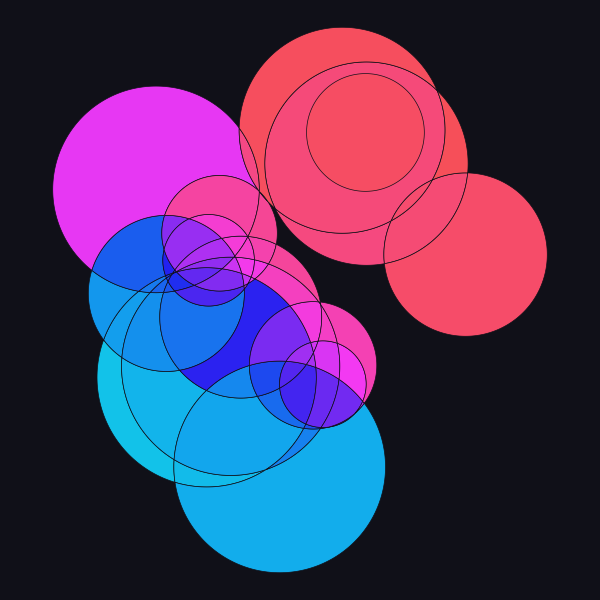
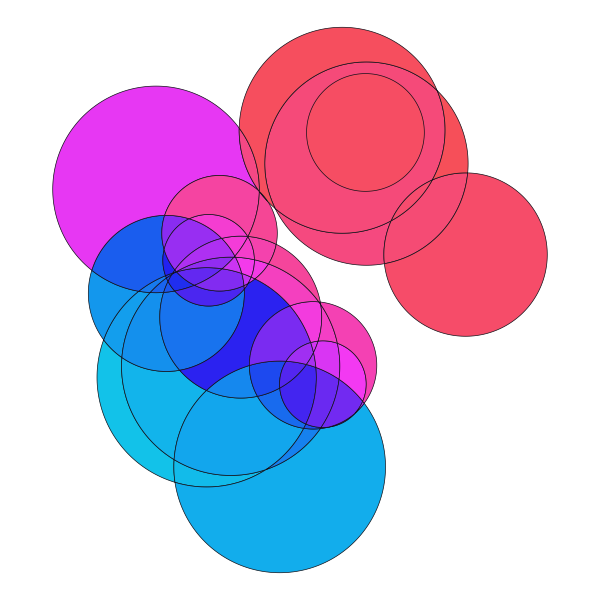
Preserve alpha end-to-end so transparent pieces stay transparent
The render pipeline flattened every piece onto opaque black: the harness
normalised to RGB and the animated encoder used rgb24/yuv420p. Pieces
drawn on a transparent ground lost it, which matters now the wall frames
pieces against its own background rather than a black tile.

- worker/render_job.py: feed ffmpeg rgba and encode VP9 with yuva420p
- samples/preview.py: normalize() returns RGBA, promoting RGB and
  greyscale input; new gif_frame() gives the local GIF previews the
  1-bit transparency GIF can express
- prototypes/, samples/*.py: match, and draw on a transparent ground
- tests/test_pipeline.py: assert the alpha survives — PNGs are RGBA with
  an unpainted corner, WebM carries the alpha_mode tag. Reading a stream
  tag needs ffprobe's default output, not csv.

Sample media re-rendered accordingly.

diff --git a/prototypes/pyodide_live_canvas/index.html b/prototypes/pyodide_live_canvas/index.html
@@ -206,13 +206,13 @@ def _normalize(obj):
         from matplotlib.figure import Figure
         if isinstance(obj, Figure):
             obj.canvas.draw()
-            arr = np.asarray(obj.canvas.buffer_rgba())[..., :3].copy()
+            arr = np.asarray(obj.canvas.buffer_rgba()).copy()
             plt.close(obj)
             return arr
     if "PIL.Image" in sys.modules:
         from PIL import Image
         if isinstance(obj, Image.Image):
-            return np.asarray(obj.convert("RGB"))
+            return np.asarray(obj.convert("RGBA"))
     arr = np.asarray(obj)
     if arr.dtype != np.uint8:
         arr = (np.clip(arr, 0, 1) * 255).astype(np.uint8)
@@ -245,7 +245,7 @@ def render(t=0.0):
     h, w = arr.shape[0], arr.shape[1]
     rgba = np.empty((h, w, 4), np.uint8)
     rgba[..., :3] = arr[..., :3]
-    rgba[..., 3] = 255
+    rgba[..., 3] = arr[..., 3] if arr.shape[-1] == 4 else 255
     return rgba
 `;
 

diff --git a/tests/test_pipeline.py b/tests/test_pipeline.py
@@ -53,16 +53,18 @@ def _render(conn, settings, code: str):
     return db.get_submission(conn, sid)
 
 
-def _probe_video(path: Path) -> tuple[str, int, int]:
-    """codec/width/height via ffprobe inside the worker image (host has none)."""
+def _probe_video(path: Path) -> tuple[str, int, int, str]:
+    """codec/width/height/alpha_mode via ffprobe inside the worker image
+    (host has none)."""
     out = subprocess.run(
         ["docker", "run", "--rm", "-v", f"{path}:/probe.webm:ro", IMAGE,
          "ffprobe", "-v", "error", "-select_streams", "v:0",
-         "-show_entries", "stream=codec_name,width,height",
-         "-of", "csv=p=0", "/probe.webm"],
+         "-show_entries", "stream=codec_name,width,height:stream_tags=alpha_mode",
+         "-of", "default=nw=1", "/probe.webm"],
         capture_output=True, text=True, check=True).stdout.strip()
-    codec, w, h = out.split(",")
-    return codec, int(w), int(h)
+    info = dict(line.split("=", 1) for line in out.splitlines())
+    return (info["codec_name"], int(info["width"]), int(info["height"]),
+            info.get("TAG:alpha_mode", "0"))
 
 
 @pytest.mark.parametrize("sample,kind", SAMPLES.items())
@@ -80,11 +82,15 @@ def test_sample_renders(env, sample, kind):
         with Image.open(media) as img:
             assert img.format == "PNG"
             assert img.width <= STATIC_BOX and img.height <= STATIC_BOX
+            assert img.mode == "RGBA"
+            # both static samples leave their corners unpainted
+            assert img.getpixel((0, 0))[3] == 0
     else:
         assert media.suffix == ".webm"
-        codec, w, h = _probe_video(media)
+        codec, w, h, alpha_mode = _probe_video(media)
         assert codec == "vp9"
         assert w <= VIDEO_BOX and h <= VIDEO_BOX
+        assert alpha_mode == "1"  # VP9 alpha channel present
 
 
 def test_broken_code_marks_failed(env):

diff --git a/worker/render_job.py b/worker/render_job.py
@@ -8,6 +8,8 @@ result.json into /out. Output spec (MVP plan §3):
   animated -> piece.webm, 150 frames @ 30 fps (5 s loop), fit 512x512,
               encoded by the in-container ffmpeg to WebM/VP9 (ADR-0003)
 Aspect ratio is always preserved (fit-in-box, no crop/stretch).
+Alpha is preserved end-to-end: PNGs keep the full alpha channel and WebM
+is encoded with VP9 alpha (yuva420p), so transparent backgrounds survive.
 """
 import importlib.util
 import inspect
@@ -58,16 +60,16 @@ def render_static(draw, out_dir: Path) -> str:
 
 def render_animated(draw, out_dir: Path) -> str:
     first = fit_in_box(normalize(draw(0.0)), VIDEO_BOX)
-    # yuv420p requires even dimensions; lock every frame to this geometry
+    # yuva420p requires even dimensions; lock every frame to this geometry
     w, h = max(2, first.width // 2 * 2), max(2, first.height // 2 * 2)
     out = out_dir / "piece.webm"
     cmd = [
         "ffmpeg", "-y", "-loglevel", "error",
-        "-f", "rawvideo", "-pix_fmt", "rgb24", "-s", f"{w}x{h}",
+        "-f", "rawvideo", "-pix_fmt", "rgba", "-s", f"{w}x{h}",
         "-r", str(FPS), "-i", "-",
         "-c:v", "libvpx-vp9", "-b:v", "0", "-crf", "34",
         "-deadline", "good", "-cpu-used", "5", "-row-mt", "1",
-        "-pix_fmt", "yuv420p", str(out),
+        "-pix_fmt", "yuva420p", str(out),
     ]
     proc = subprocess.Popen(cmd, stdin=subprocess.PIPE)
     try:
@@ -76,7 +78,7 @@ def render_animated(draw, out_dir: Path) -> str:
             if (frame.width, frame.height) != (w, h):
                 frame = frame.resize((w, h))
             proc.stdin.write(
-                np.asarray(frame.convert("RGB"), dtype=np.uint8).tobytes())
+                np.asarray(frame.convert("RGBA"), dtype=np.uint8).tobytes())
     finally:
         proc.stdin.close()
         returncode = proc.wait()

diff --git a/samples/preview.py b/samples/preview.py
@@ -20,17 +20,27 @@ def normalize(obj) -> Image.Image:
     from matplotlib.figure import Figure
     if isinstance(obj, Figure):
         obj.canvas.draw()
-        arr = np.asarray(obj.canvas.buffer_rgba())[..., :3].copy()
+        arr = np.asarray(obj.canvas.buffer_rgba()).copy()
         plt.close(obj)
         return Image.fromarray(arr)
     if isinstance(obj, Image.Image):
-        return obj.convert("RGB")
+        return obj.convert("RGBA")
     arr = np.asarray(obj)
     if arr.dtype != np.uint8:
         arr = (np.clip(arr, 0, 1) * 255).astype(np.uint8)
     if arr.ndim == 2:
         arr = np.dstack([arr] * 3)
+    if arr.shape[-1] == 3:  # RGB -> opaque RGBA
+        arr = np.dstack([arr, np.full(arr.shape[:2], 255, np.uint8)])
     return Image.fromarray(arr)
+
+def gif_frame(img: Image.Image) -> Image.Image:
+    """Palette frame with 1-bit transparency (all GIF can express)."""
+    alpha = img.getchannel("A")
+    frame = img.convert("RGB").convert("P", palette=Image.ADAPTIVE, colors=255)
+    frame.paste(255, Image.eval(alpha, lambda a: 255 if a < 128 else 0))
+    frame.info["transparency"] = 255
+    return frame
 
 def main():
     src = Path(sys.argv[1])
@@ -44,9 +54,10 @@ def main():
         normalize(draw()).save(out)
     else:
         out = src.with_suffix(".gif")
-        frames = [normalize(draw(i / FRAMES)) for i in range(FRAMES)]
+        frames = [gif_frame(normalize(draw(i / FRAMES))) for i in range(FRAMES)]
         frames[0].save(out, save_all=True, append_images=frames[1:],
-                       duration=1000 // FPS, loop=0)
+                       duration=1000 // FPS, loop=0,
+                       transparency=255, disposal=2)
     print(f"wrote {out}")
 
 if __name__ == "__main__":

diff --git a/samples/torus_wireframe.py b/samples/torus_wireframe.py
@@ -24,8 +24,8 @@ def draw(t):
     shade = (depth - depth.min()) / (np.ptp(depth) + 1e-9)
 
     fig, ax = plt.subplots(figsize=(5.12, 5.12), dpi=100)
-    fig.patch.set_facecolor("#05060f")
-    ax.set_facecolor("#05060f")
+    fig.patch.set_facecolor("none")   # transparent background
+    ax.set_facecolor("none")
     ax.add_collection(LineCollection(
         segs, colors=plt.cm.cool(shade),
         linewidths=0.4 + 1.2 * shade, alpha=0.9))

diff --git a/samples/circle_mosaic.py b/samples/circle_mosaic.py
@@ -21,8 +21,8 @@ def draw():
     order = np.argsort([r.centroid.x + r.centroid.y for r in regions])
 
     fig, ax = plt.subplots(figsize=(6, 6), dpi=100)
-    fig.patch.set_facecolor("#101018")
-    ax.set_facecolor("#101018")
+    fig.patch.set_facecolor("none")   # transparent background
+    ax.set_facecolor("none")
 
     for rank, idx in enumerate(order):
         ax.fill(*regions[idx].exterior.xy, color=palette[rank],

diff --git a/samples/flow_field.py b/samples/flow_field.py
@@ -18,8 +18,8 @@ def draw():
     trails = np.array(trails)  # (steps, n, 2)
 
     fig, ax = plt.subplots(figsize=(6, 6), dpi=100)
-    fig.patch.set_facecolor("#0d0d16")
-    ax.set_facecolor("#0d0d16")
+    fig.patch.set_facecolor("none")   # transparent background
+    ax.set_facecolor("none")
 
     colors = plt.cm.plasma(np.linspace(0, 1, trails.shape[1]))
     for i in range(trails.shape[1]):
